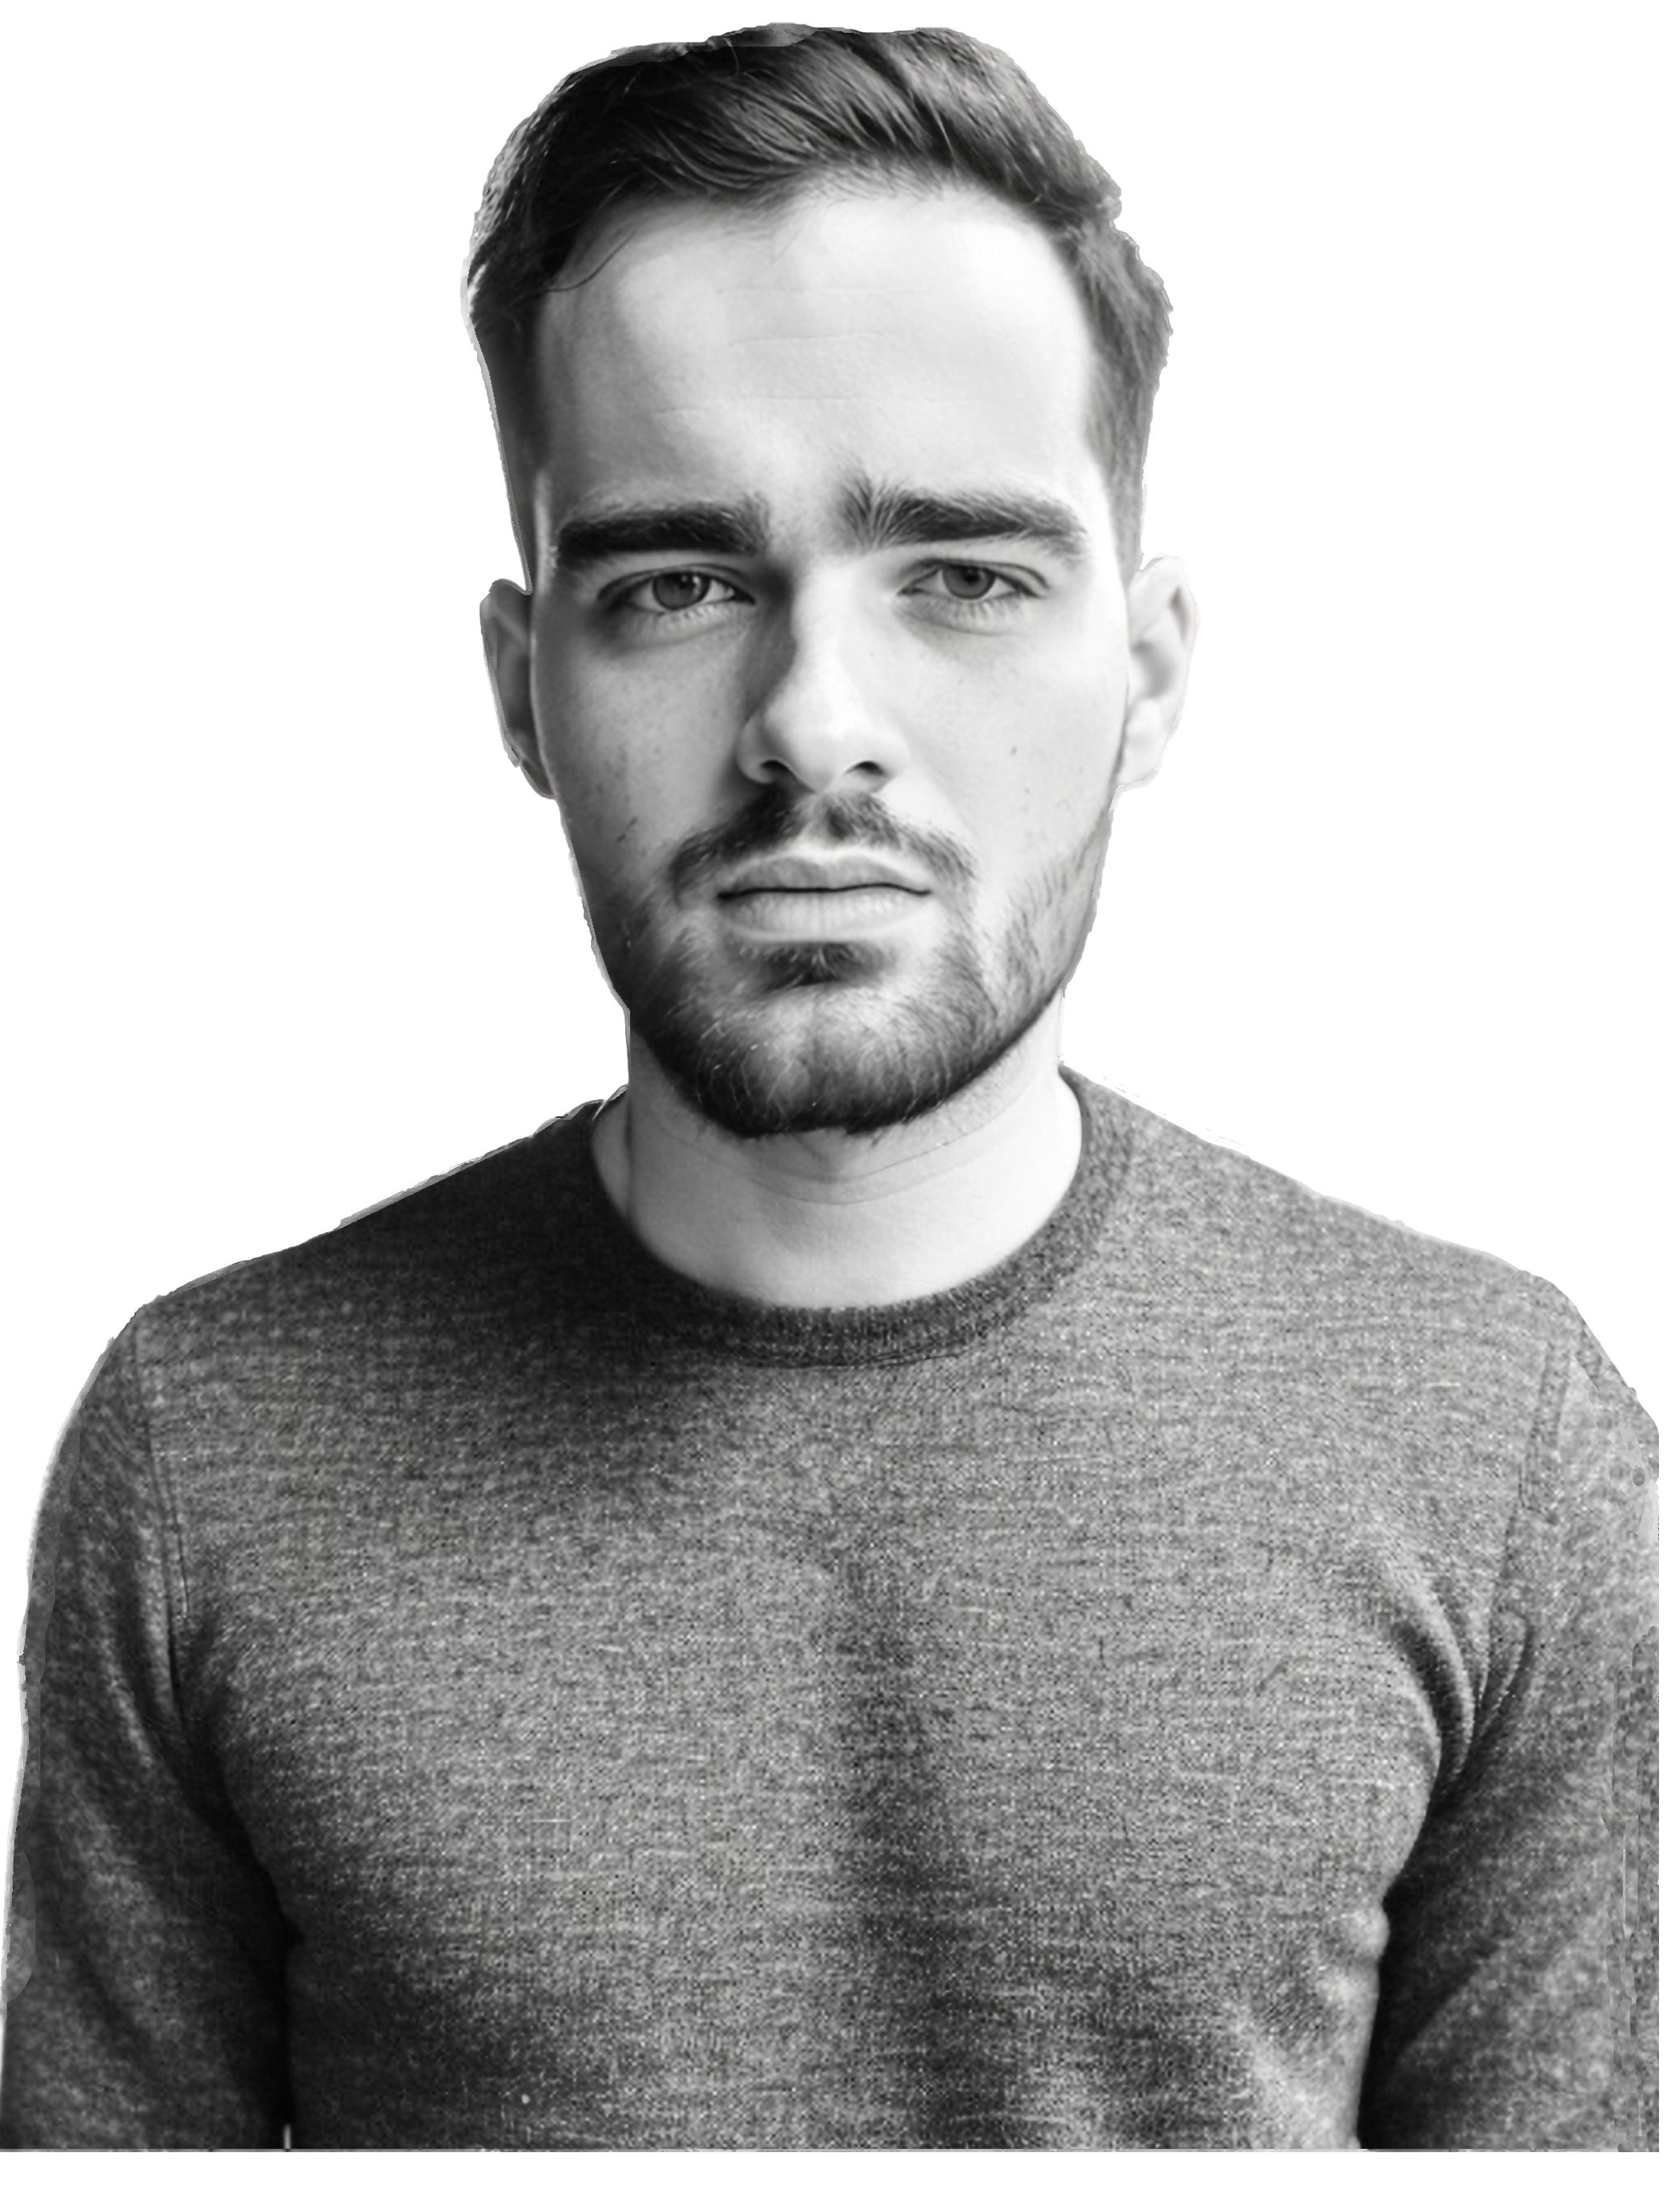
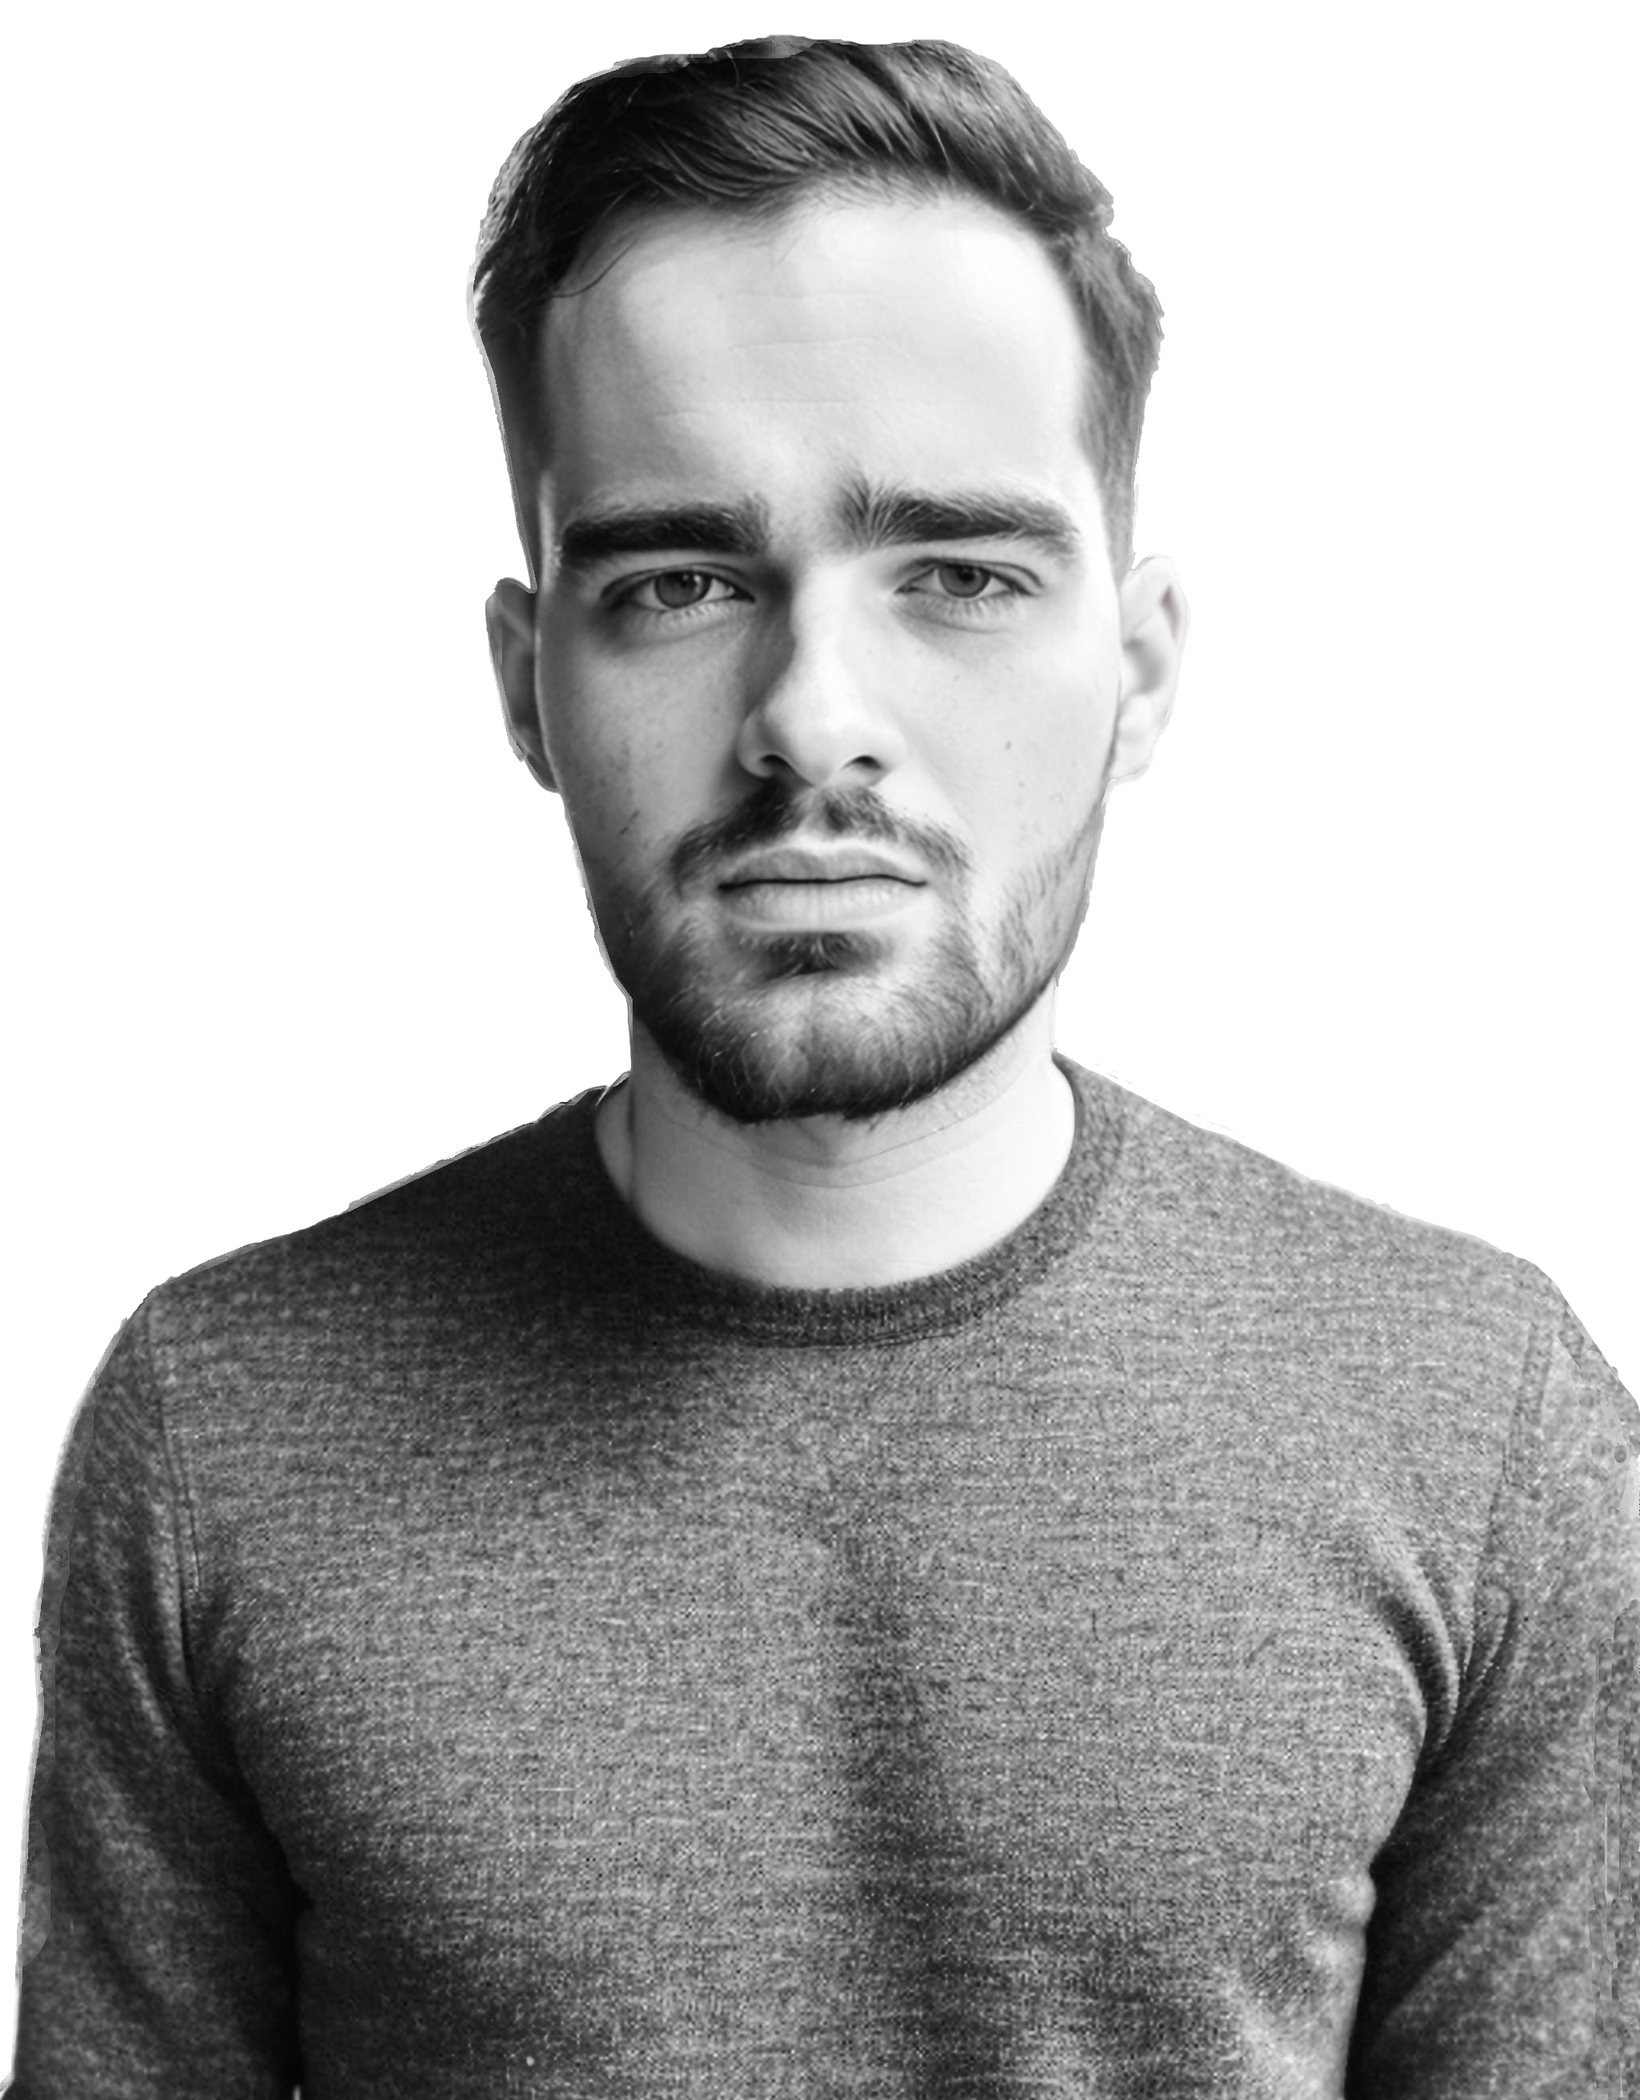
Startseite_fixed_responsiveness

Changed region(s): [[0.0, 0.0, 1.0, 1.0]]

diff --git a/src/app/startseite/startseite.component.html b/src/app/startseite/startseite.component.html
@@ -1,16 +1,20 @@
 <div class="container">
-    <div class="content">
-        <div class="box">
-            <div class="text-section">
-                <span class="dev-text-bold">&lt;dev&gt;</span><br>
-                <div class="dev-description" >
-                    Frontend-Developer<br>
-                    mit einer Leidenschaft<br>
-                    für Programmieren
+    <div class="row">
+        <div class="col-lg-6 order-lg-2 d-flex justify-content-end align-items-end">
+            <div class="box">
+                <div class="text-section">
+                    <span class="dev-text-bold">&lt;dev&gt;</span><br>
+                    <div class="dev-description">
+                        Frontend-Developer<br>
+                        mit einer Leidenschaft<br>
+                        für Programmieren
+                    </div>
                 </div>
             </div>
-            <div id="image-container">
-            <img class="portrait" src="assets/images/Gent_Selbstportrait.png"  />
+        </div>
+        <div class="col-lg-6 order-lg-1 d-flex justify-content-start">
+            <div id="image-container" class="d-flex align-items-end">
+                <img class="portrait" src="assets/images/Gent_Selbstportrait.png" style="max-width: 100%; height: auto; max-height: 80vh;" />
             </div>
         </div>
     </div>

diff --git a/src/app/startseite/startseite.component.css b/src/app/startseite/startseite.component.css
@@ -27,22 +27,26 @@
     position: relative;
 }
 
-.portrait {
-    width: 450px;
-    height: auto;
-    position: relative; /* Änderung der Positionierung auf relative */
-    top: 32px; /* Beispiel für eine Position von oben */
-    left: 80%; /* Beispiel für eine Position von links */
-    max-width: 100%;
-}
-
-
-.text-section {
+.image-container {
+    width: 100%;
     display: flex;
-    flex-direction: column;
-    position: absolute;
-    bottom: 30%; /* 5 cm über dem unteren Rand */
-    left: 3cm; /* 5 cm vom linken Rand */
+    justify-content: center;
+    align-items: flex-end;
+    position: relative;
+  }
+  
+  .portrait {
+    width: 100%;
+    max-width: 450px;
+    height: auto;
+    max-height: 70vh;
+    align-self: flex-end;
+  }
+
+
+  .text-section {
+    padding-right: 20px; /* Abstand zwischen Text und Bild */
+    padding-bottom: 20px; /* Zusätzlicher Abstand zum Bild */
 }
 
 .dev-text-bold {
